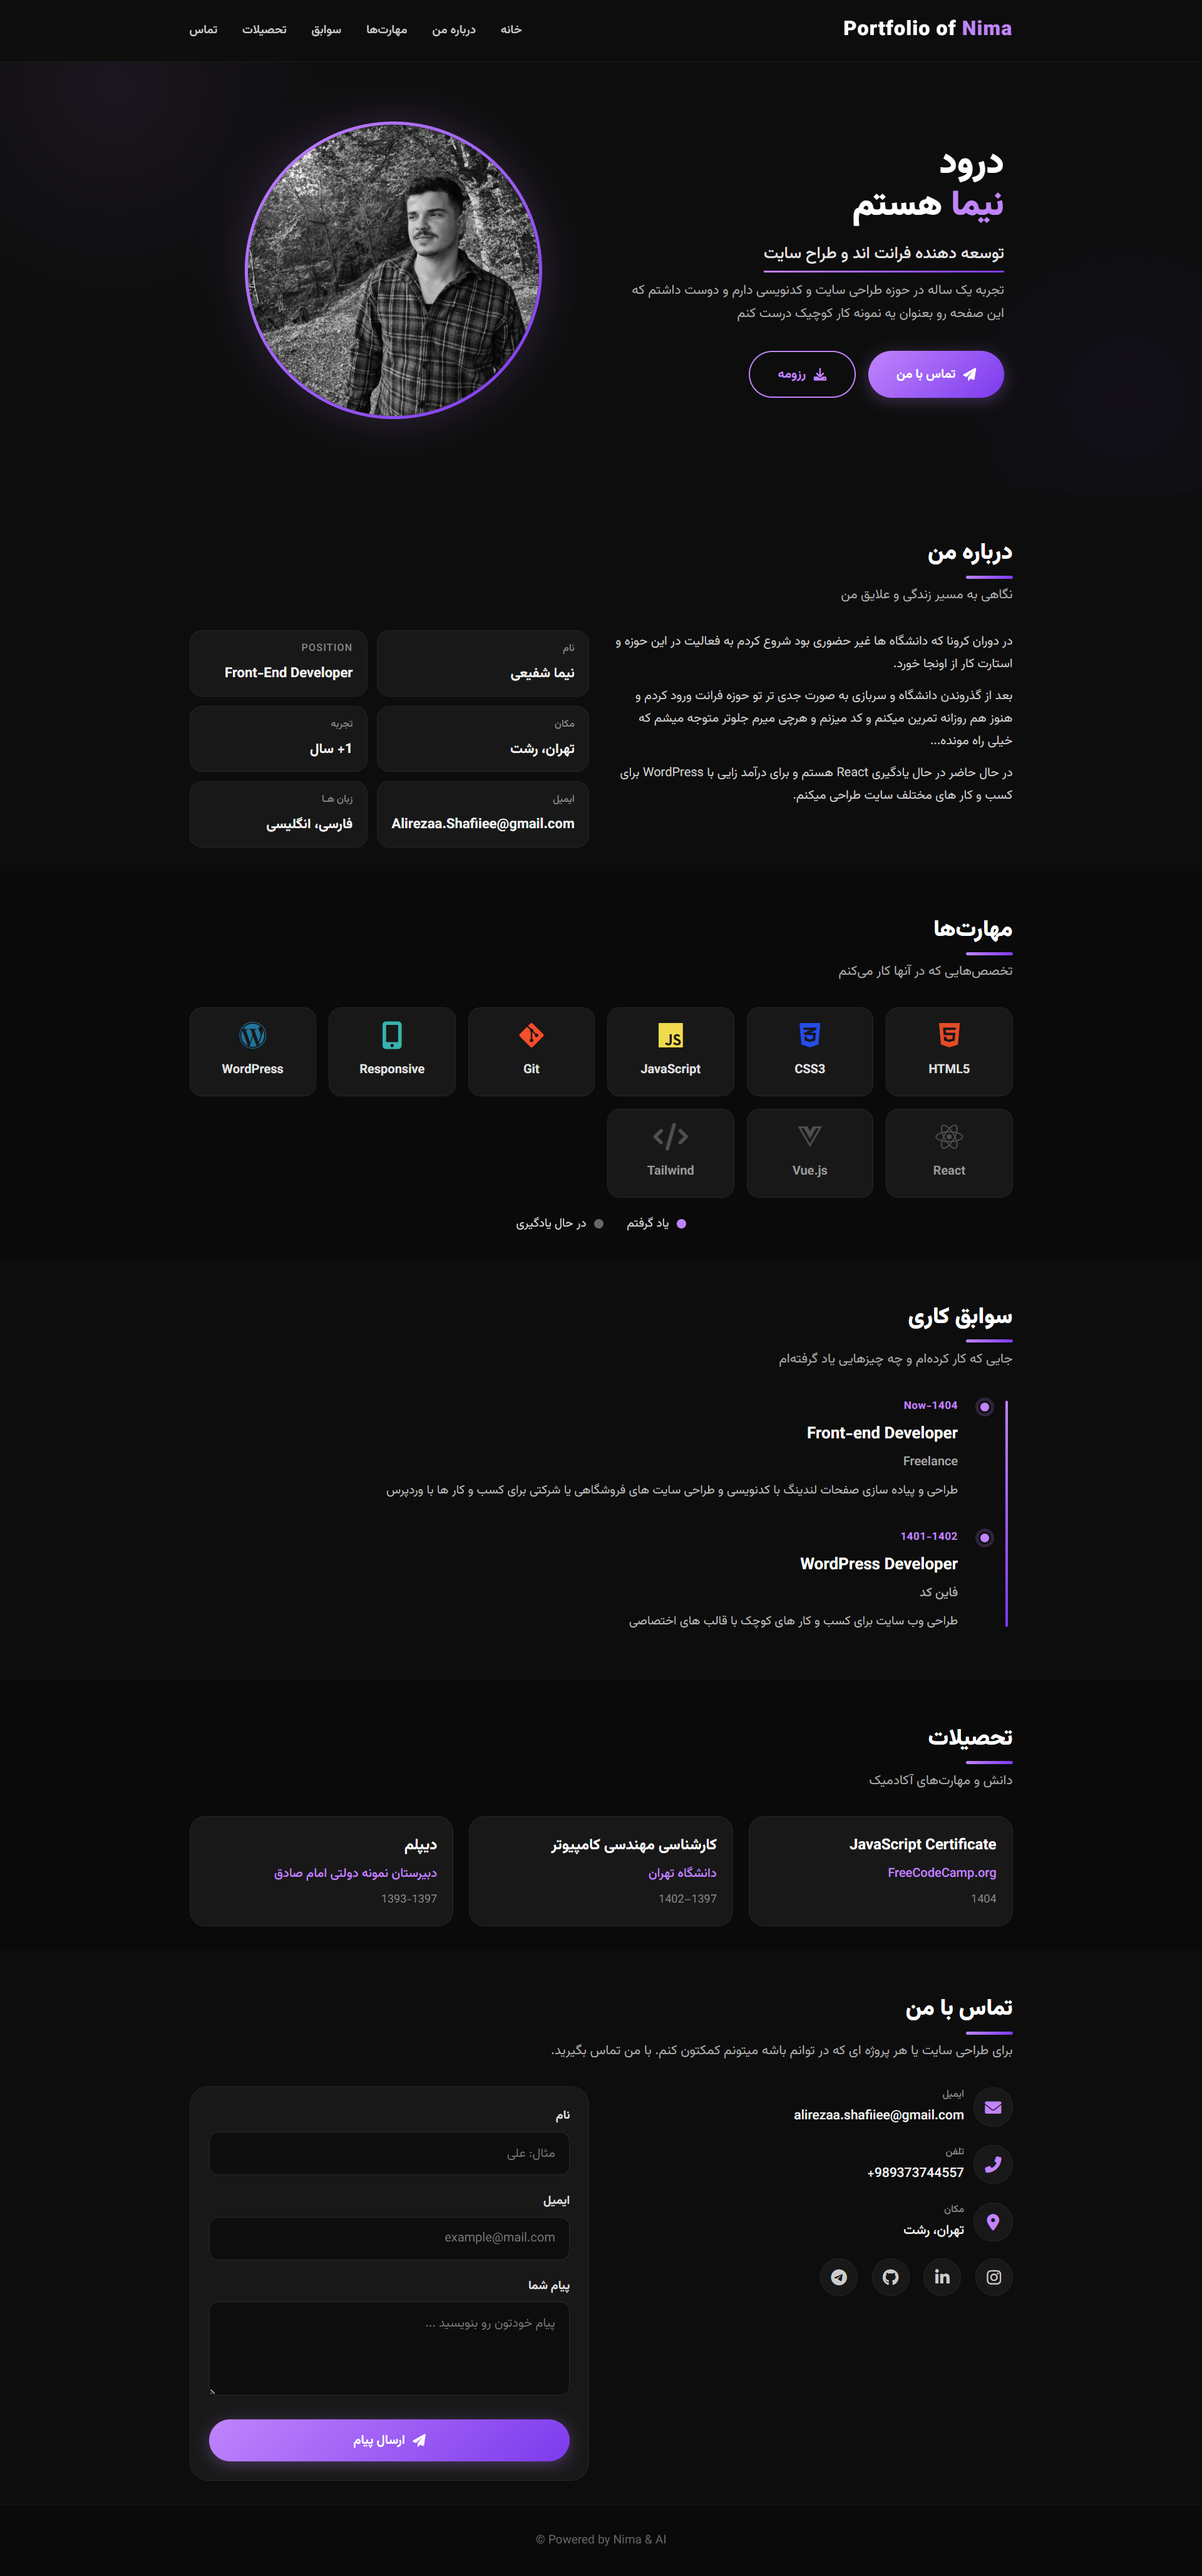
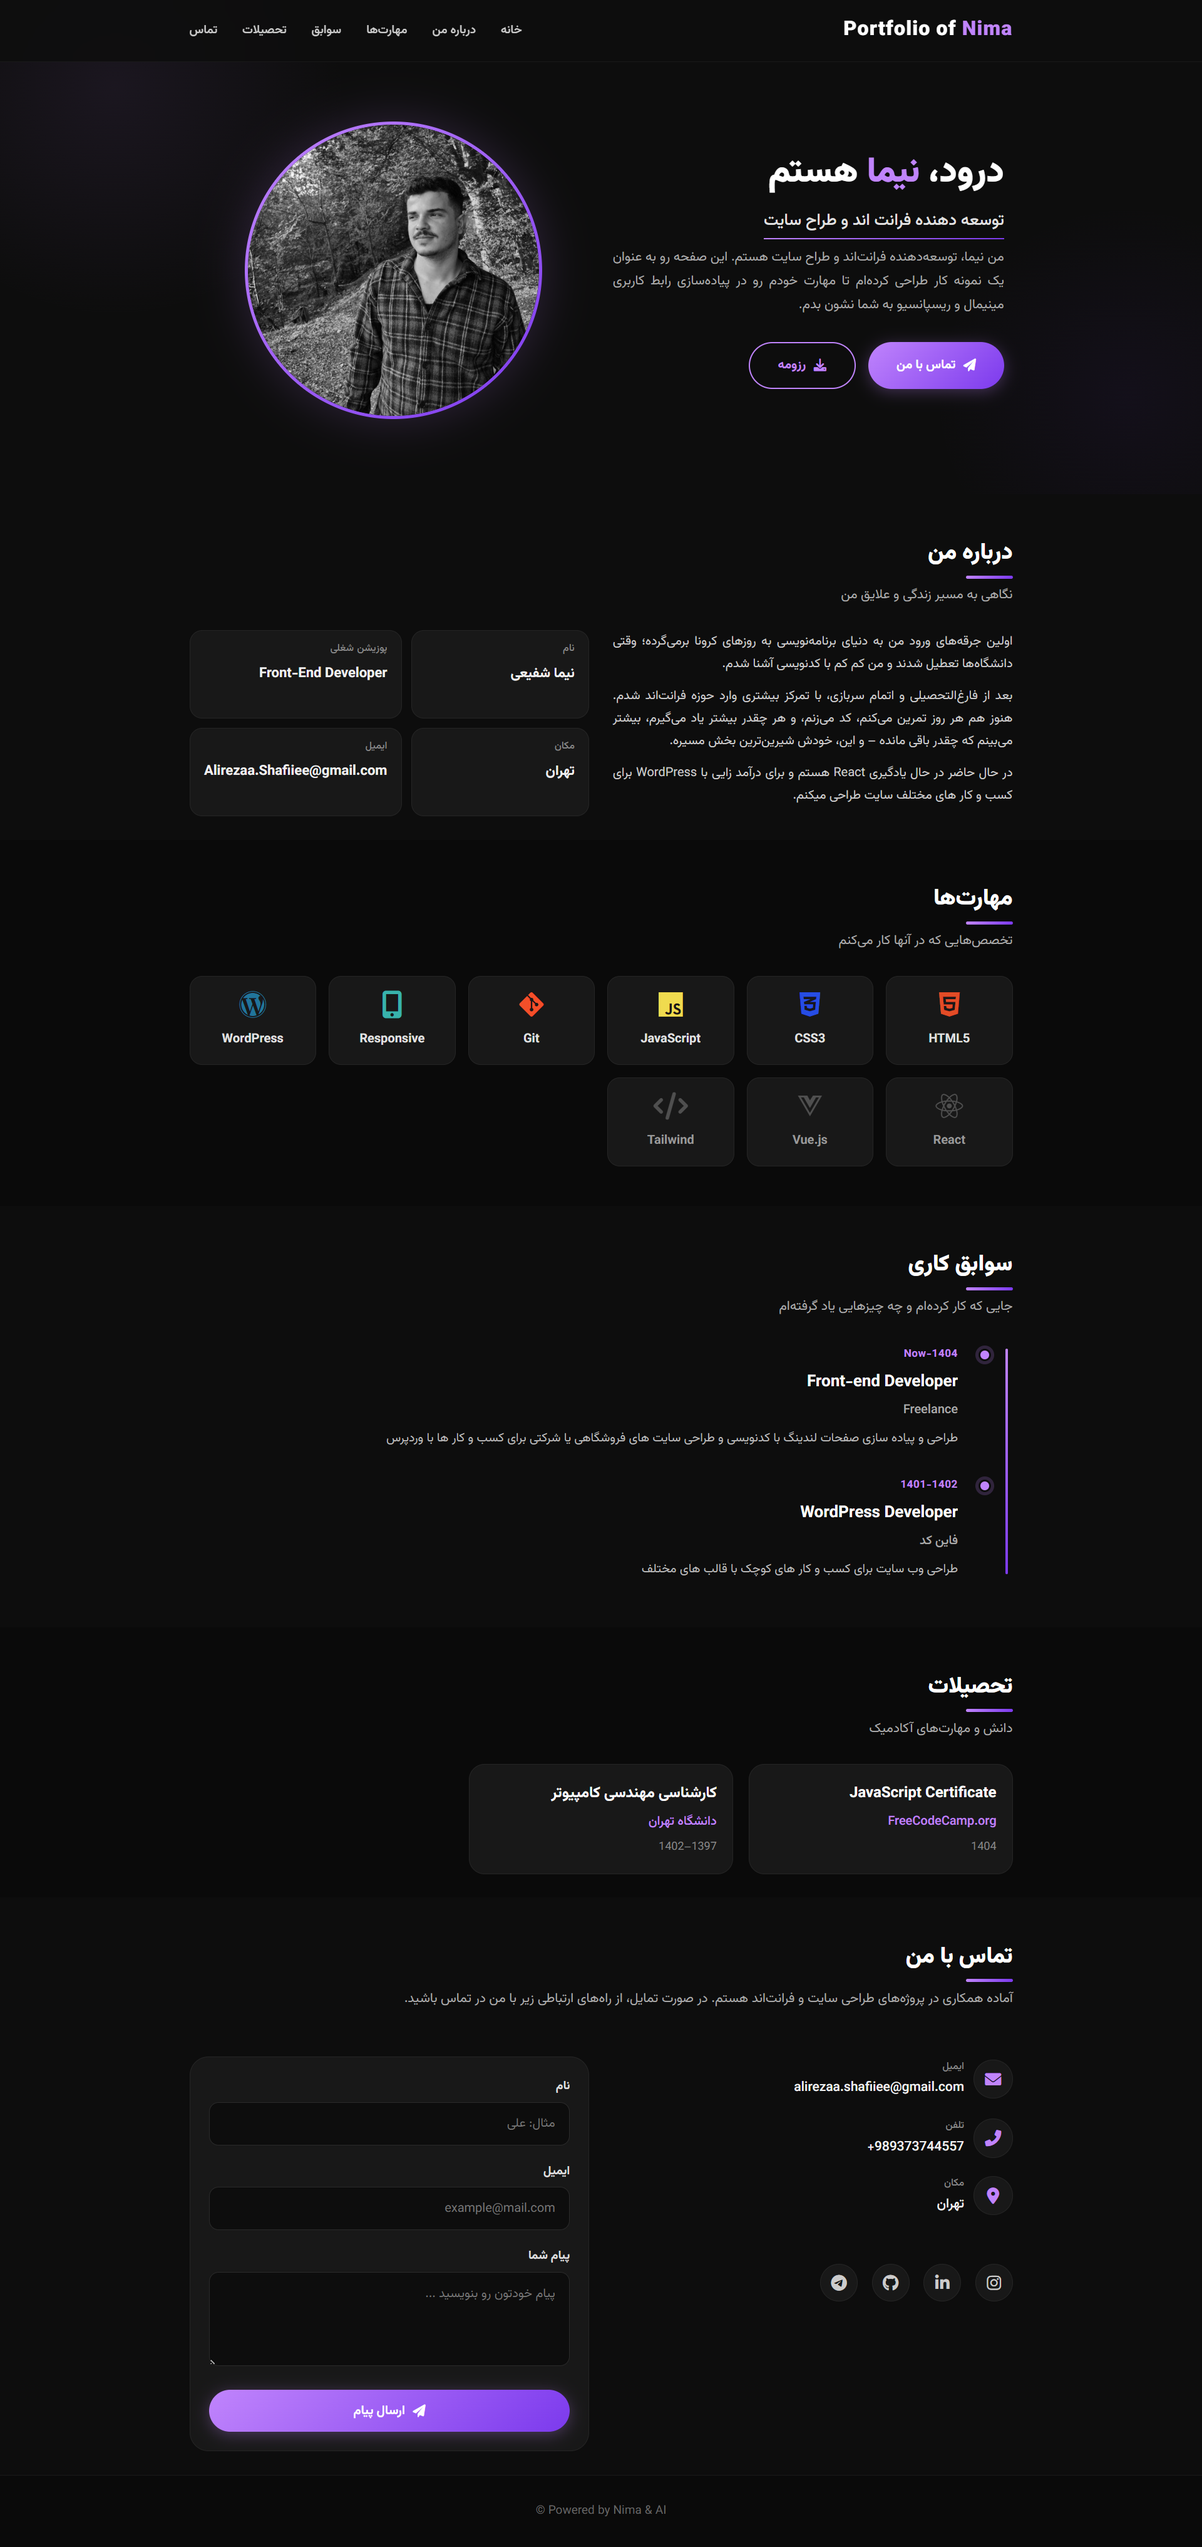
edit some issues

diff --git a/index.html b/index.html
@@ -16,7 +16,6 @@
         <link rel="stylesheet" href="style.css" />
     </head>
     <body>
-        <!-- ===== HEADER ===== -->
         <header>
             <div class="container nav-container">
                 <div class="logo">Portfolio of <span>Nima</span></div>
@@ -34,18 +33,19 @@
             </div>
         </header>
 
-        <!-- ===== HERO ===== -->
         <section class="hero" id="home">
             <div class="container hero-content">
                 <div class="hero-text">
                     <h1>
-                        درود <br />
+                        درود،
                         <span class="highlight">نیما</span> هستم
                     </h1>
                     <p class="tagline">توسعه دهنده فرانت اند و طراح سایت</p>
                     <p class="bio">
-                        تجربه یک ساله در حوزه طراحی سایت و کدنویسی دارم و دوست
-                        داشتم که این صفحه رو بعنوان یه نمونه کار کوچیک درست کنم
+                        من نیما، توسعهدهنده فرانتاند و طراح سایت هستم. این
+                        صفحه رو به عنوان یک نمونه کار طراحی کردهام تا مهارت
+                        خودم رو در پیادهسازی رابط کاربری مینیمال و ریسپانسیو به
+                        شما نشون بدم.
                     </p>
                     <div class="hero-actions">
                         <a href="#contact" class="btn btn-primary">
@@ -69,7 +69,6 @@
             </div>
         </section>
 
-        <!-- ===== ABOUT ===== -->
         <section class="section" id="about">
             <div class="container">
                 <h2 class="section-title">درباره من</h2>
@@ -77,14 +76,16 @@
                 <div class="about-grid">
                     <div class="about-text">
                         <p>
-                            در دوران کرونا که دانشگاه ها غیر حضوری بود شروع کردم
-                            به فعالیت در این حوزه و استارت کار از اونجا خورد.
+                            اولین جرقههای ورود من به دنیای برنامهنویسی به
+                            روزهای کرونا برمیگرده؛ وقتی دانشگاهها تعطیل شدند و
+                            من کم کم با کدنویسی آشنا شدم.
                         </p>
                         <p>
-                            بعد از گذروندن دانشگاه و سربازی به صورت جدی تر تو
-                            حوزه فرانت ورود کردم و هنوز هم روزانه تمرین میکنم و
-                            کد میزنم و هرچی میرم جلوتر متوجه میشم که خیلی راه
-                            مونده...
+                            بعد از فارغالتحصیلی و اتمام سربازی، با تمرکز بیشتری
+                            وارد حوزه فرانتاند شدم. هنوز هم هر روز تمرین
+                            میکنم، کد میزنم، و هر چقدر بیشتر یاد میگیرم،
+                            بیشتر میبینم که چقدر باقی مانده – و این، خودش
+                            شیرینترین بخش مسیره.
                         </p>
                         <p>
                             در حال حاضر در حال یادگیری React هستم و برای درآمد
@@ -98,31 +99,22 @@
                             <div class="value">نیما شفیعی</div>
                         </div>
                         <div class="about-detail-item">
-                            <div class="label">Position</div>
+                            <div class="label">پوزیشن شغلی</div>
                             <div class="value">Front-End Developer</div>
                         </div>
                         <div class="about-detail-item">
                             <div class="label">مکان</div>
-                            <div class="value">تهران، رشت</div>
-                        </div>
-                        <div class="about-detail-item">
-                            <div class="label">تجربه</div>
-                            <div class="value">1+ سال</div>
+                            <div class="value">تهران</div>
                         </div>
                         <div class="about-detail-item">
                             <div class="label">ایمیل</div>
                             <div class="value">Alirezaa.Shafiiee@gmail.com</div>
-                        </div>
-                        <div class="about-detail-item">
-                            <div class="label">زبان هـا</div>
-                            <div class="value">فارسی، انگلیسی</div>
                         </div>
                     </div>
                 </div>
             </div>
         </section>
 
-        <!-- ===== SKILLS ===== -->
         <section class="section" id="skills" style="background: #0a0a0a">
             <div class="container">
                 <h2 class="section-title">مهارتها</h2>
@@ -165,19 +157,9 @@
                         ><span>Tailwind</span>
                     </div>
                 </div>
-                <!-- Legend (دایرههای راهنما در پایین مهارتها طبق تصویر) -->
-                <div class="skill-legend">
-                    <span class="legend-item">
-                        <span class="legend-dot learned"></span> یاد گرفتم
-                    </span>
-                    <span class="legend-item">
-                        <span class="legend-dot learning"></span> در حال یادگیری
-                    </span>
-                </div>
             </div>
         </section>
 
-        <!-- ===== EXPERIENCE ===== -->
         <section class="section" id="experience">
             <div class="container">
                 <h2 class="section-title">سوابق کاری</h2>
@@ -201,7 +183,7 @@
                         <div class="company">فاین کد</div>
                         <p>
                             طراحی وب سایت برای کسب و کار های کوچک با قالب های
-                            اختصاصی
+                            مختلف
                         </p>
                     </div>
                 </div>
@@ -224,25 +206,19 @@
                         <div class="institution">دانشگاه تهران</div>
                         <div class="year">1397–1402</div>
                     </div>
-                    <div class="edu-card">
-                        <div class="degree">دیپلم</div>
-                        <div class="institution">
-                            دبیرستان نمونه دولتی امام صادق
-                        </div>
-                        <div class="year">1393-1397</div>
-                    </div>
                 </div>
             </div>
         </section>
 
-        <!-- ===== CONTACT ===== -->
         <section class="section" id="contact">
             <div class="container">
                 <h2 class="section-title">تماس با من</h2>
                 <p class="section-subtitle">
-                    برای طراحی سایت یا هر پروژه ای که در توانم باشه میتونم
-                    کمکتون کنم. با من تماس بگیرید.
+                    آماده همکاری در پروژههای طراحی سایت و فرانتاند هستم. در
+                    صورت تمایل، از راههای ارتباطی زیر با من در تماس باشید.
                 </p>
+                <br />
+
                 <div class="contact-grid">
                     <div class="contact-info">
                         <div class="info-item">
@@ -253,6 +229,8 @@
                                     alirezaa.shafiiee@gmail.com
                                 </div>
                             </div>
+                            <br />
+                            <br />
                         </div>
                         <div class="info-item">
                             <i class="fas fa-phone-alt"></i>
@@ -260,14 +238,17 @@
                                 <div class="label">تلفن</div>
                                 <div class="value" dir="ltr">+989373744557</div>
                             </div>
+                            <br />
                         </div>
                         <div class="info-item">
                             <i class="fas fa-map-marker-alt"></i>
                             <div>
                                 <div class="label">مکان</div>
-                                <div class="value">تهران، رشت</div>
+                                <div class="value">تهران</div>
                             </div>
+                            <br />
                         </div>
+                        <br />
                         <div class="social-links">
                             <a
                                 href="https://instagram.com/_.nima_sh"

diff --git a/style.css b/style.css
@@ -1,4 +1,3 @@
-/* ===== RESET & BASE ===== */
 *,
 *::before,
 *::after {
@@ -28,7 +27,6 @@ ul {
     list-style: none;
 }
 
-/* ===== SCROLLBAR ===== */
 ::-webkit-scrollbar {
     width: 8px;
 }
@@ -43,7 +41,6 @@ ul {
     background: #a855f7;
 }
 
-/* ===== UTILITY ===== */
 .container {
     max-width: 1100px;
     margin: 0 auto;
@@ -77,7 +74,7 @@ ul {
     color: #aaa;
     font-size: 1.05rem;
     margin-bottom: 30px;
-    max-width: 600px;
+    max-width: 950px;
 }
 
 .btn {
@@ -114,7 +111,6 @@ ul {
     color: #0d0d0d;
 }
 
-/* ===== HEADER / NAV ===== */
 header {
     position: fixed;
     top: 0;
@@ -183,7 +179,6 @@ header {
     color: #e0e0e0;
 }
 
-/* ===== HERO ===== */
 .hero {
     min-height: 85vh;
     display: flex;
@@ -267,6 +262,7 @@ header {
     color: #aaa;
     max-width: 500px;
     margin-bottom: 32px;
+    text-align: justify;
 }
 
 .hero-actions {
@@ -320,7 +316,6 @@ header {
     transform: scale(1.03);
 }
 
-/* ===== ABOUT ===== */
 .about-grid {
     display: grid;
     grid-template-columns: 1fr 1fr;
@@ -331,6 +326,7 @@ header {
     color: #ccc;
     font-size: 1rem;
     margin-bottom: 12px;
+    text-align: justify;
 }
 
 .about-details {
@@ -362,7 +358,6 @@ header {
     margin-top: 4px;
 }
 
-/* ===== SKILLS ===== */
 .skills-grid {
     display: grid;
     grid-template-columns: repeat(auto-fill, minmax(150px, 1fr));
@@ -396,7 +391,6 @@ header {
     color: #e0e0e0;
 }
 
-/* Legend for skills */
 .skill-legend {
     display: flex;
     justify-content: center;
@@ -428,7 +422,6 @@ header {
     background-color: #666;
 }
 
-/* ===== EXPERIENCE ===== */
 .timeline {
     position: relative;
     padding-right: 30px;
@@ -484,7 +477,6 @@ header {
     font-size: 0.98rem;
 }
 
-/* ===== EDUCATION ===== */
 .edu-grid {
     display: grid;
     grid-template-columns: repeat(auto-fill, minmax(260px, 1fr));
@@ -517,7 +509,6 @@ header {
     font-size: 0.9rem;
 }
 
-/* ===== CONTACT ===== */
 .contact-grid {
     display: grid;
     grid-template-columns: 1fr 1fr;
@@ -625,7 +616,6 @@ header {
     justify-content: center;
 }
 
-/* ===== FOOTER ===== */
 footer {
     background: #0a0a0a;
     border-top: 1px solid #1a1a1a;
@@ -635,7 +625,6 @@ footer {
     font-size: 0.95rem;
 }
 
-/* ===== RESPONSIVE ===== */
 @media (max-width: 992px) {
     .hero-content {
         grid-template-columns: 1fr;
@@ -665,8 +654,8 @@ footer {
 
 @media (max-width: 768px) {
     .hero {
-        padding-top: 120px; /* از 60px به 120px افزایش بده */
-        min-height: 100vh; /* مطمئن میشویم فضای کافی وجود دارد */
+        padding-top: 120px;
+        min-height: 100vh;
     }
     .nav-links {
         position: fixed;
@@ -727,7 +716,6 @@ footer {
     }
 }
 
-/* ===== SKILLS - LEARNING STATE ===== */
 .skill-card.learning i {
     color: #666 !important;
     opacity: 0.7;
@@ -736,7 +724,7 @@ footer {
     color: #999;
 }
 .skill-card.learning:hover i {
-    color: #fff !important; /* هنگام هاور سفید میشوند */
+    color: #fff !important;
     opacity: 1;
 }
 .skill-card.learning:hover span {

diff --git a/script.js b/script.js
@@ -15,7 +15,6 @@ document.addEventListener('DOMContentLoaded', () => {
     });
 });
 
-// ===== SMOOTH SCROLL WITH OFFSET FOR FIXED HEADER =====
 document.querySelectorAll('a[href^="#"]').forEach(anchor => {
     anchor.addEventListener('click', function (e) {
         e.preventDefault();
